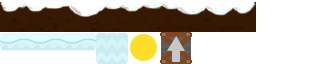
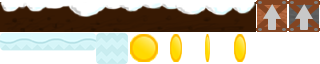
added coins and  upgrades

Changed region(s): [[0.7812, 0.0, 1.0, 0.5], [0.4062, 0.5, 0.6562, 1.0], [0.7188, 0.5312, 0.7812, 0.9688]]

diff --git a/ArcticHotBlast/Upgrade.cpp b/ArcticHotBlast/Upgrade.cpp
@@ -1,0 +1,36 @@
+#include "Upgrade.h"
+
+
+Upgrade::Upgrade()
+{
+	this->textureItem = AssetLibrary::instance()->textureMap;
+	this->item.setTextureRect(sf::IntRect(256, 0, 288, 32));
+}
+
+
+Upgrade::Upgrade(TypeID typeID)
+{
+	this->idType = typeID;
+	this->textureItem = AssetLibrary::instance()->textureMap;
+	this->item.setTextureRect(sf::IntRect(160, 32, 192, 64));
+}
+
+Upgrade::~Upgrade()
+{
+}
+
+bool Upgrade::update()
+{
+	itemCollider.update(item.getPosition());
+	return false;
+}
+
+void Upgrade::setTypeID(TypeID typeID)
+{
+	this->idType = typeID;
+}
+
+void Upgrade::draw(sf::RenderTarget& target, sf::RenderStates states) const
+{
+	target.draw(item);
+}

diff --git a/ArcticHotBlast/MapPart1.cpp b/ArcticHotBlast/MapPart1.cpp
@@ -10,12 +10,14 @@ MapPart1::~MapPart1()
 {
 }
 
-void MapPart1::buildPlatforms(float x)
+void MapPart1::buildPlatforms(float beginPoint)
 {
-	Platform* platform = new Platform(sf::Vector2f(x + 500.0f, 528.0f), 4);
-	mapPart->addPlatform(platform);
-
-	platform = new Platform(sf::Vector2f(x + 750.0f, 368.0f), 10);
-	mapPart->addPlatform(platform);
+	this->beginPoint = beginPoint;
+	createPlatform(100, 528, 5);
 }
 
+void MapPart1::createPlatform(float xx, float yy, int zz)
+{
+	Platform* platform = new Platform(sf::Vector2f(beginPoint + xx, yy), zz);
+	mapPart->addPlatform(platform);
+}

diff --git a/ArcticHotBlast/Coin.cpp b/ArcticHotBlast/Coin.cpp
@@ -3,18 +3,21 @@
 Coin::Coin()
 {
 	this->textureItem = AssetLibrary::instance()->textureMap;
+	this->item.setTexture(*textureItem);
 	this->item.setTextureRect(sf::IntRect(128, 32, 160, 64));
-}
+	this->idType = TypeID::Coin;
 
+	this->coinAnimation = new Animation(item, 4, 10.0f, sf::Vector2i(128, 32), sf::Vector2i(256, 32));
+}
 
 Coin::~Coin()
 {
 }
 
-
-bool Coin::update()
+bool Coin::update(sf::Time& frameTime)
 {
 	itemCollider.update(item.getPosition());
+	coinAnimation->play(frameTime);
 	return false;
 }
 

diff --git a/ArcticHotBlast/Weapon.cpp b/ArcticHotBlast/Weapon.cpp
@@ -6,11 +6,8 @@ Weapon::Weapon()
 {
 	this->textureWeapon = AssetLibrary::instance()->textureWeapon;
 	weapon.setTexture(*textureWeapon);
-
 	weapon.setOrigin(5, 22);
-	weapon.setPosition(armLocation.x, armLocation.y + 75);
-	this->armLocation = sf::Vector2f(armLocation.x - weapon.getPosition().x, armLocation.y - weapon.getPosition().y);
-	std::cout << weapon.getPosition().x << " " << weapon.getPosition().y << "\n";
+	this->armLocation = sf::Vector2f(0, -75);
 	armRotated = false;
 	armRotation = 0;
 }

diff --git a/ArcticHotBlast/Upgrade.h b/ArcticHotBlast/Upgrade.h
@@ -1,19 +1,19 @@
 #pragma once
 
 #include "Item.h"
-#include "Animation.h"
 
-class Coin :
+class Upgrade :
 	public Item
 {
 public:
-	Coin();
-	virtual ~Coin();
+	Upgrade();
+	Upgrade(TypeID typeID);
+	virtual ~Upgrade();
 
-	virtual bool update(sf::Time& frameTime);
+	virtual bool update();
+	void setTypeID(TypeID typeID);
 
 private:
-	Animation* coinAnimation;
 	virtual void draw(sf::RenderTarget& target, sf::RenderStates states) const;
 };
 

diff --git a/ArcticHotBlast/MapPartBuilder.h b/ArcticHotBlast/MapPartBuilder.h
@@ -7,9 +7,10 @@ public:
 	~MapPartBuilder();
 	MapPart* getMapPart();
 	MapPartBuilder();
-	virtual void buildPlatforms(float x) = 0;
+	virtual void buildPlatforms(float beginPoint) = 0;
 	//virtual void buildEnemySpawnSpots() = 0;
 	//virtual void buildItemSpawnSpots() = 0;
 protected:
+	float beginPoint;
 	MapPart* mapPart;
 };

diff --git a/ArcticHotBlast/Item.h b/ArcticHotBlast/Item.h
@@ -2,6 +2,14 @@
 #include "AssetLibrary.h"
 #include "Collider.h"
 
+enum class TypeID
+{
+	Coin,
+	Dyfuser,
+	EnginePart,
+	Baterry
+};
+
 class Item :
 	public sf::Drawable
 {
@@ -14,6 +22,6 @@ protected:
 	sf::Sprite item;
 	Collider itemCollider;
 	sf::Texture* textureItem;
-	int idType;
+	TypeID idType;
 };
 

diff --git a/ArcticHotBlast/AssetLibrary.cpp b/ArcticHotBlast/AssetLibrary.cpp
@@ -7,10 +7,10 @@ sf::RenderWindow* AssetLibrary::mainWindow = 0;
 sf::Texture* AssetLibrary::textureMap = 0;
 sf::Texture* AssetLibrary::textureBody = 0;
 sf::Texture* AssetLibrary::textureWeapon = 0;
+
 AssetLibrary::AssetLibrary()
 {
 }
-
 
 AssetLibrary::~AssetLibrary()
 {

diff --git a/ArcticHotBlast/Map.h b/ArcticHotBlast/Map.h
@@ -3,7 +3,6 @@
 #include <vector>
 #include "Collider.h"
 #include "CollidersDB.h"
-#include "Platform.h"
 #include "MapPartBuilder.h"
 #include "MapPart1.h"
 

diff --git a/ArcticHotBlast/MapPart1.h b/ArcticHotBlast/MapPart1.h
@@ -12,5 +12,7 @@ public:
 	~MapPart1();
 protected:
 	
+private:
+	void createPlatform(float x, float y, int z);
 };
 
